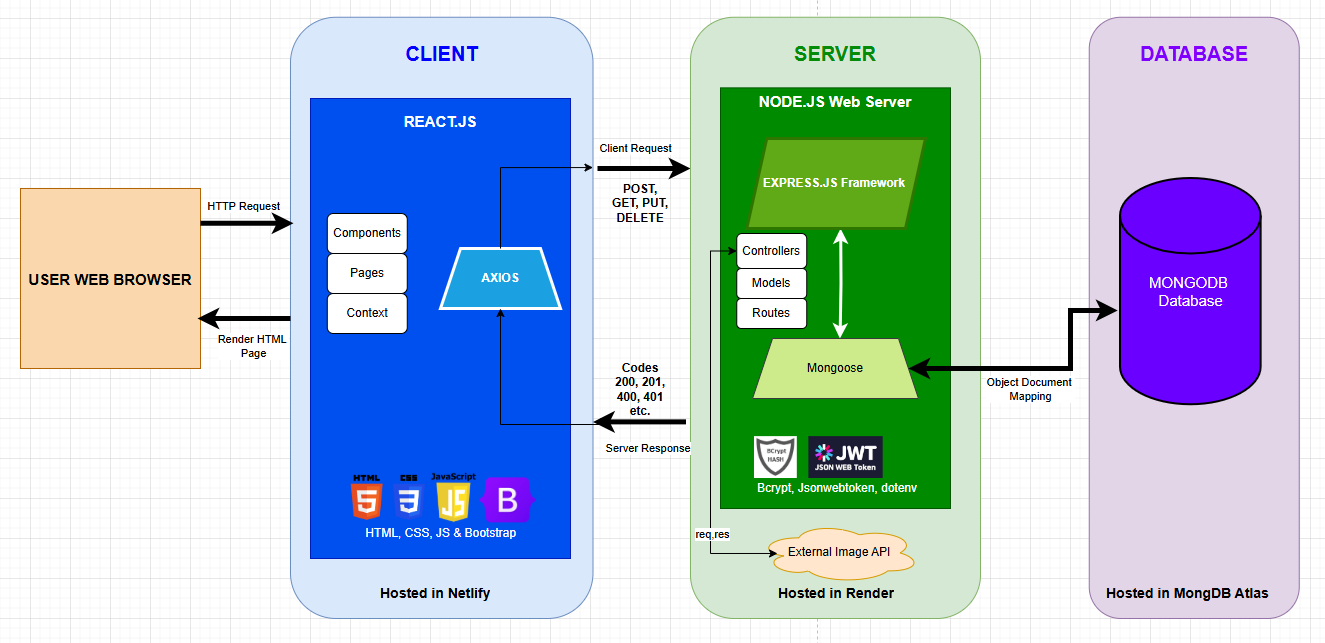
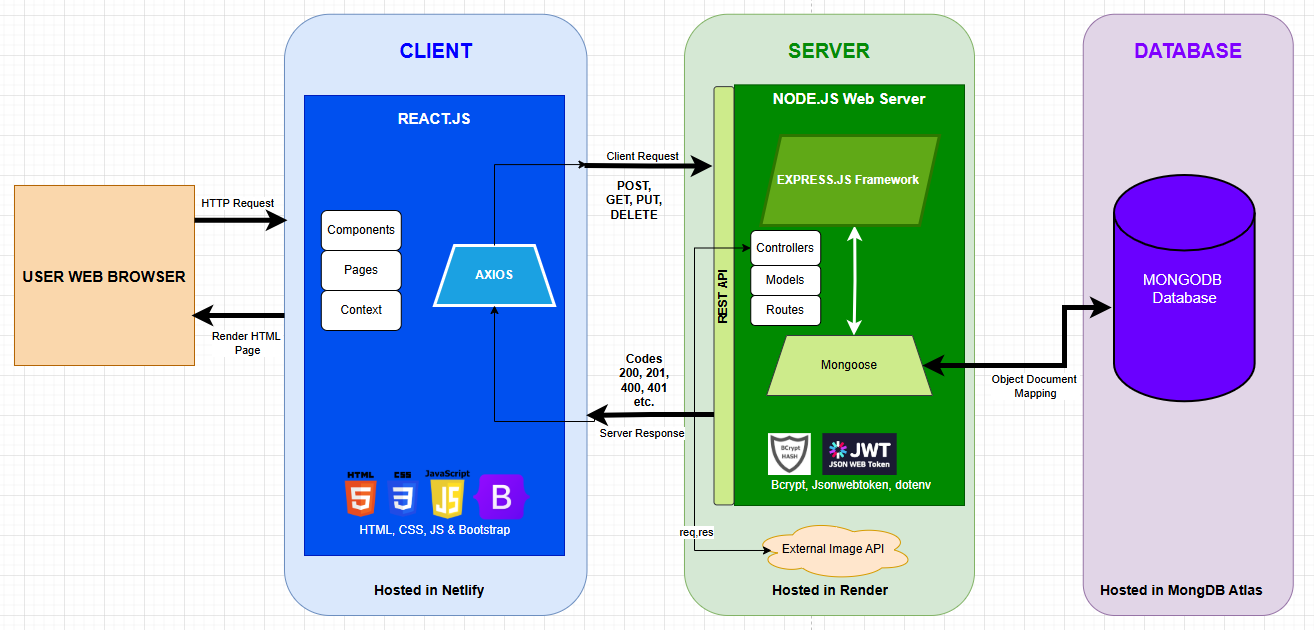
Feat: added new dataflow diagram and edited original

diff --git a/README 2.md b/README 2.md
@@ -1,8 +1,14 @@
 
 
-# R2 - PresentPals Dataflow Diagram
+# R2 - PresentPals Dataflow Diagrams
 
-![Dataflow Diagram](./images/Data_Flow_2025-02-08.png)
+## Site Map / Users Access
+
+![Dataflow Diagram](./images/Dataflow%20Diagram_2.png)
+
+## Dataflow & CRUD Processes 
+
+![DF & CRUD Diagram](./images/DF%20&%20CRUD%20Diagram.png)
 
 # Details
 ## Register / Login Data
